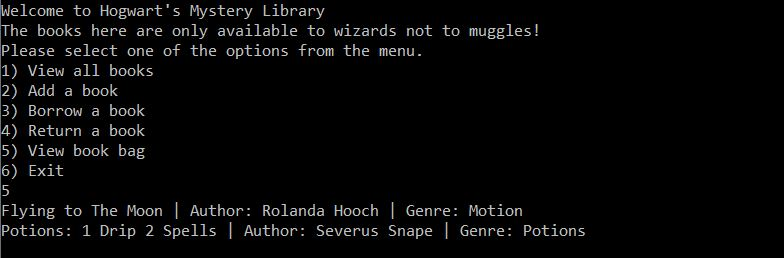
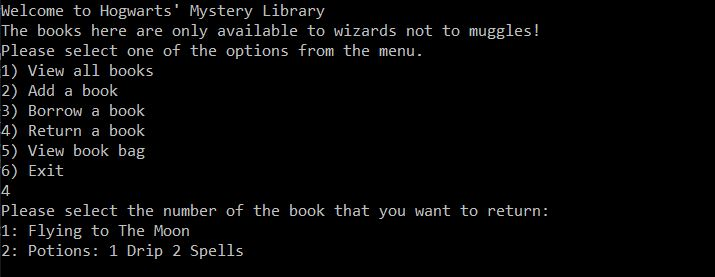
add Remove() method

Changed region(s): [[0.0, 0.0, 0.7692, 0.9302]]

diff --git a/lab07-collections/lab07-collections/Program.cs b/lab07-collections/lab07-collections/Program.cs
@@ -15,14 +15,14 @@ namespace lab07_collections
             }
         }
 
-        public static Library<Book> HogwartLibrary = new Library<Book>();
+        public static Library<Book> HogwartsLibrary = new Library<Book>();
         public static List<Book> BookBag = new List<Book>();
         public static Genre bookGenre = new Genre();
 
         static bool UserInterface()
         {
             Console.Clear();
-            Console.WriteLine("Welcome to Hogwart's Mystery Library");
+            Console.WriteLine("Welcome to Hogwarts' Mystery Library");
             Console.WriteLine("The books here are only available to wizards not to muggles!");
             Console.WriteLine("Please select one of the options from the menu.");
             Console.WriteLine("1) View all books");
@@ -38,7 +38,8 @@ namespace lab07_collections
                 {
                     case "1":
                         ViewAllBooks();
-                        int totalBooks = HogwartLibrary.Count();
+                        int totalBooks = HogwartsLibrary.Count();
+                        Console.WriteLine("");
                         Console.WriteLine($"There are {totalBooks} books in the library.");
                         Console.ReadLine();
                         return true;
@@ -51,7 +52,7 @@ namespace lab07_collections
                         string firstName = Console.ReadLine();
                         Console.WriteLine("\nAuthor's last name: ");
                         string lastName = Console.ReadLine();
-                        Console.WriteLine("\n");
+                        Console.WriteLine("");
                         bool addBook = true;
                         while (addBook)
                         {
@@ -60,21 +61,21 @@ namespace lab07_collections
                         return true;
 
                     case "3":
-                        Console.WriteLine("Please enter title of the book that you want to borrow: ");
+                        Console.WriteLine("Please enter title of the book that you want to borrow:");
                         ViewAllBooks();
                         string bookBorrowed = Console.ReadLine();
                         BorrowBooks(bookBorrowed);
                         return true;
 
                     case "4":
-                        Console.WriteLine("Please enter title of the book that you want to return: ");
-                        ViewBookBag();
-                        string bookReturned = Console.ReadLine();
-                        ReturnBooks(bookReturned);
+                        Console.WriteLine("Please select the number of the book that you want to return:");
+                        ReturnBooks();
                         return true;
 
                     case "5":
-                        ViewBookBag();
+                        int totalBooksInBag = ViewBookBag();
+                        Console.WriteLine("");
+                        Console.WriteLine($"There are {totalBooksInBag} books in your book bag.");
                         Console.ReadLine();
                         return true;
 
@@ -115,13 +116,13 @@ namespace lab07_collections
             Book[] OriginalBooks = new Book[] { book1, book2, book3, book4, book5 };
             foreach (Book book in OriginalBooks)
             {
-                HogwartLibrary.Add(book);
+                HogwartsLibrary.Add(book);
             }
         }
 
         public static void ViewAllBooks()
         {
-            foreach (Book book in HogwartLibrary)
+            foreach (Book book in HogwartsLibrary)
             {
                 Console.WriteLine($"{book.Title} | Author: {book.Author.FirstName} {book.Author.LastName} | Genre: {book.Genre}");
             }
@@ -146,52 +147,52 @@ namespace lab07_collections
                 case "1":
                     Author author = new Author(firstName, lastName);
                     Book book = new Book(title, author, Genre.Motion);
-                    HogwartLibrary.Add(book);
+                    HogwartsLibrary.Add(book);
                     return false;
                 case "2":
                     Author author2 = new Author(firstName, lastName);
                     Book book2 = new Book(title, author2, Genre.Transfiguration);
-                    HogwartLibrary.Add(book2);
+                    HogwartsLibrary.Add(book2);
                     return false;
                 case "3":
                     Author author3 = new Author(firstName, lastName);
                     Book book3 = new Book(title, author3, Genre.DarkMagic);
-                    HogwartLibrary.Add(book3);
+                    HogwartsLibrary.Add(book3);
                     return false;
                 case "4":
                     Author author4 = new Author(firstName, lastName);
                     Book book4 = new Book(title, author4, Genre.MuggleStudies);
-                    HogwartLibrary.Add(book4);
+                    HogwartsLibrary.Add(book4);
                     return false;
                 case "5":
                     Author author5 = new Author(firstName, lastName);
                     Book book5 = new Book(title, author5, Genre.Potions);
-                    HogwartLibrary.Add(book5);
+                    HogwartsLibrary.Add(book5);
                     return false;
                 case "6":
                     Author author6 = new Author(firstName, lastName);
                     Book book6 = new Book(title, author6, Genre.AncientRunes);
-                    HogwartLibrary.Add(book6);
+                    HogwartsLibrary.Add(book6);
                     return false;
                 case "7":
                     Author author7 = new Author(firstName, lastName);
                     Book book7 = new Book(title, author7, Genre.HistoryOfMagic);
-                    HogwartLibrary.Add(book7);
+                    HogwartsLibrary.Add(book7);
                     return false;
                 case "8":
                     Author author8= new Author(firstName, lastName);
                     Book book8 = new Book(title, author8, Genre.Charm);
-                    HogwartLibrary.Add(book8);
+                    HogwartsLibrary.Add(book8);
                     return false;
                 case "9":
                     Author author9 = new Author(firstName, lastName);
                     Book book9 = new Book(title, author9, Genre.CareOfMagicalCreatures);
-                    HogwartLibrary.Add(book9);
+                    HogwartsLibrary.Add(book9);
                     return false;
                 case "10":
                     Author author10 = new Author(firstName, lastName);
                     Book book10 = new Book(title, author10, Genre.Others);
-                    HogwartLibrary.Add(book10);
+                    HogwartsLibrary.Add(book10);
                     return false;
                 default:
                     Console.WriteLine("Please enter a valid selection.");
@@ -202,29 +203,32 @@ namespace lab07_collections
 
         static void BorrowBooks(string title)
         {
-            foreach(Book book in HogwartLibrary)
-            {
-                if(book.Title == title)
-                {
-                    BookBag.Add(book);
-                    //HogwartLibrary.Remove(book);
-                }
-            }
-        }
-
-        static void ReturnBooks(string title)
-        {
-            foreach (Book book in BookBag)
+            foreach (Book book in HogwartsLibrary)
             {
                 if (book.Title == title)
                 {
-                    HogwartLibrary.Add(book);
-                    //BookBag.Remove(book);
+                    BookBag.Add(book);
+                    HogwartsLibrary.Remove(book);
                 }
-            }
+            }      
         }
 
-        static void ViewBookBag()
+        static void ReturnBooks()
+        {
+            Dictionary<int, Book> bookBagList = new Dictionary<int, Book>();
+            int bookCount = 1;
+            foreach (Book book in BookBag)
+            {
+                Console.WriteLine($"{bookCount}: {book.Title}");
+                bookCount++;
+            }
+            int bookNumber = int.Parse(Console.ReadLine());
+            Book bookReturned = bookBagList.GetValueOrDefault(bookNumber);
+            HogwartsLibrary.Add(bookReturned);
+            BookBag.Remove(bookReturned);
+        }
+
+        static int ViewBookBag()
         {
             int totalBookBag = 0;
             foreach (var item in BookBag)
@@ -235,10 +239,11 @@ namespace lab07_collections
             {
                 Console.WriteLine("Your book bag is empty.");
             }
-            foreach (Book book in BookBag)
+            foreach (var book in BookBag)
             {
                 Console.WriteLine($"{book.Title} | Author: {book.Author.FirstName} {book.Author.LastName} | Genre: {book.Genre}");
             }
+            return totalBookBag;
         }
     }
 }

diff --git a/lab07-collections/lab07-collections/Library.cs b/lab07-collections/lab07-collections/Library.cs
@@ -33,43 +33,37 @@ namespace lab07_collections
         }
 
         /// <summary>
-        /// Find if the book is inside the library. If yes, remove it from the collection.
+        /// 
         /// </summary>
         /// <param name="bookToRemove"></param>
-        public void Remove(T bookToRemove)
+        public bool Remove(Book bookToRemove)
         {
-            int bookIndex = -1;
-            for (int i = 0; i < library.Length; i++)
+            for (int i = 0; i < currentIndex; i++)
             {
-                if (library[i].Equals(bookToRemove))
+                if (bookToRemove.Equals(library[i]))
                 {
-                    bookIndex = i;
+                    for (int x = i; x < currentIndex; x++)
+                    {
+                        library[x] = library[x + 1];
+                    }
+                    currentIndex = currentIndex - 1;
+                    if (currentIndex < library.Length - 5)
+                    {
+                        Array.Resize(ref library, library.Length - 5);
+                    }
+                    return true;
                 }
             }
-            //library.Remove(bookIndex) ;
-
-
-            // is the item in the collection?
-            // find it
-            // manipulate array to remove the item
-            // eventually send to resize
+            return false;
         }
 
         /// <summary>
-        /// Use for loop to loop through library collection and count how many items in there are not null.
+        /// Return currentIndex values that shows how many books are there.
         /// </summary>
         /// <returns></returns>
         public int Count()
         {
-            int totalBooks = 0;
-            for (int i = 0; i < library.Length; i++)
-            {
-                if(library[i] != null)
-                {
-                    totalBooks++;
-                }
-            }
-            return totalBooks;
+            return currentIndex;
         }
 
         /// <summary>

diff --git a/README.md b/README.md
@@ -48,7 +48,6 @@ Using the Application - Borrow a Book and View Book Bag
 Using the Application - Return a Book
 
 ![Alt execution capture](/captures/return_books2.JPG)
-![Alt execution capture](/captures/view_book_bag.JPG)
 
 ## Change Log
 
@@ -66,4 +65,4 @@ Using the Application - Return a Book
 
 1.7: Add ViewBookBag() method to show all the books in the book bag. - 2019 Nov 02
 
-1.8: 
+1.8: Add Remove() method in Library< T > class. - 2019 Nov 02
